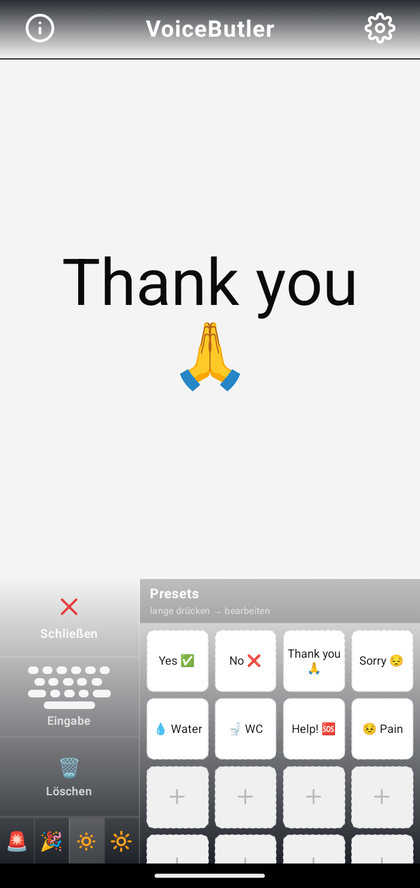
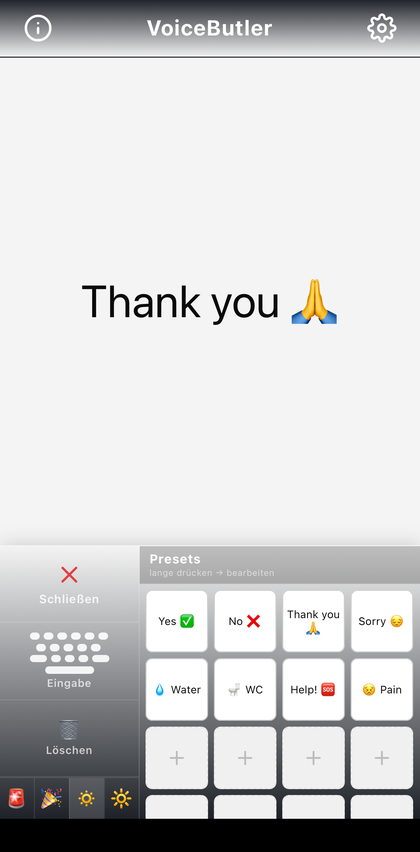
Screenshots auf den Stand aus iOS_254 gebracht
Die bisherigen Bilder stammten aus dem Android-Satz und aus voicebutler/
und zeigten die Bedienleiste ohne den Schreibtafel-Button. Der Ordner
docs/Screenshots/iOS_254 enthält den neueren Satz; er war mir entgangen,
weil die Dateien auf .PNG enden und meine Suche auf *.png lief.

- Hero: ios_de_speech zeigt die Aufnahme mit vollständiger Bedienleiste
  (Papierkorb, Schreibtafel, Stopp, Sitzungsarchiv).
- Galerie: Schreibtafel wieder aufgenommen, dazu Antwort-Presets und
  Sitzungsarchiv, alle aus demselben iOS-Satz und damit einheitlich hoch.
- Alt-Texte beschreiben jetzt den tatsächlichen Bildinhalt.

Claude-Session: https://claude.ai/code/session_017EB1oeobqRuwgACAxr2EH7

diff --git a/index.html b/index.html
@@ -517,7 +517,7 @@
 
     <div class="phone">
       <img src="voicebutler-screen.png"
-           alt="VoiceButler auf dem iPhone: Der gesprochene Satz „Ich weiß dass du mich nicht hören kannst aber jetzt kannst du lesen was ich sage“ erscheint in großer Schrift."
+           alt="VoiceButler auf dem iPhone: Während der Aufnahme erscheint der gesprochene Satz „Ich weiß das du mich nicht hören kannst aber jetzt kannst du lesen was ich sage“ in großer Schrift. Darunter die Bedienleiste mit Papierkorb, Schreibtafel, Stopp-Taste und Sitzungsarchiv."
            width="640" height="1298" loading="eager" fetchpriority="high">
     </div>
   </div>
@@ -565,11 +565,15 @@
 
         <div class="shots" role="group" aria-label="Screenshots von VoiceButler">
           <figure class="shot">
-            <img src="shot-presets.png" alt="Antwort-Presets wie Yes, No, Thank you, Water, WC, Help und Pain." width="420" height="888" loading="lazy">
+            <img src="shot-writing.png" alt="Schreibtafel: Der getippte Satz „Ich kann nicht sprechen aber jetzt kann ich dir zeigen was ich meine“ steht in großer Schrift über der Tastatur." width="420" height="852" loading="lazy">
+            <figcaption>Schreibtafel</figcaption>
+          </figure>
+          <figure class="shot">
+            <img src="shot-presets.png" alt="Antwort-Presets: „Thank you“ groß auf dem Bildschirm, darunter die Auswahl mit Yes, No, Thank you, Sorry, Water, WC, Help und Pain." width="420" height="852" loading="lazy">
             <figcaption>Antwort-Presets</figcaption>
           </figure>
           <figure class="shot">
-            <img src="shot-sessions.png" alt="Sitzungsarchiv mit gespeicherten Gesprächen." width="420" height="852" loading="lazy">
+            <img src="shot-sessions.png" alt="Sitzungsarchiv mit gespeicherten Gesprächen, jeweils mit Datum und Anzahl der Segmente." width="420" height="852" loading="lazy">
             <figcaption>Sitzungsarchiv</figcaption>
           </figure>
         </div>
